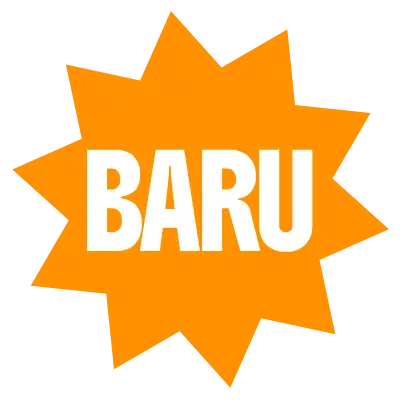
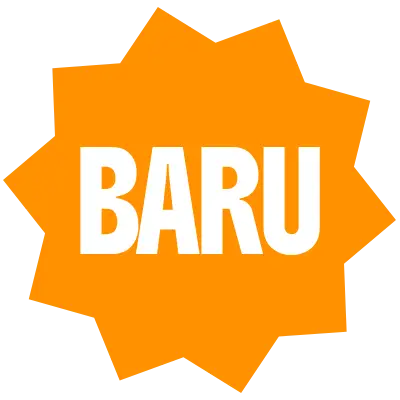
views31

Changed region(s): [[0.0, 0.0, 0.99, 0.99], [0.45, 0.03, 0.72, 0.18], [0.06, 0.39, 0.09, 0.42]]

diff --git a/components/product/ProductCard.tsx b/components/product/ProductCard.tsx
@@ -73,7 +73,7 @@ export default function ProductCard({
         {/* Image */}
         <div className="relative w-28 h-28 md:w-36 md:h-36 flex-shrink-0 rounded-xl overflow-hidden bg-gray-100">
           {isNew && (
-            <img src="/BadgeBaru.webp" alt="Badge Baru" width={40} height={40}/>
+            <img src="/BadgeBaru.webp" alt="Badge Baru" width={60} height={60} className="absolute top-4 left-3"/>
           )}
           {product.promo && (
             <span className="absolute bg-amber-600 text-white z-[15] top-2 right-2 text-[9px] font-bold px-2 py-[2px] rounded-sm shadow-sm">
@@ -222,7 +222,7 @@ export default function ProductCard({
   return (
     <Link href={`/produk/${product.url}`} className="flex flex-shrink-0 w-auto md:w-[200px] group flex-col gap-y-4 relative">
       {isNew && (
-        <img src="/BadgeBaru.webp" alt="Badge Baru" width={40} height={40}/>
+        <img src="/BadgeBaru.webp" alt="Badge Baru" width={60} height={60} className="absolute top-4 left-3"/>
       )}
       <div className="md:w-[100%] transition group relative overflow-hidden rounded-2xl border-1 border-slate-200 hover:border-slate-300 hover:bg-gray-200 transition">
 
